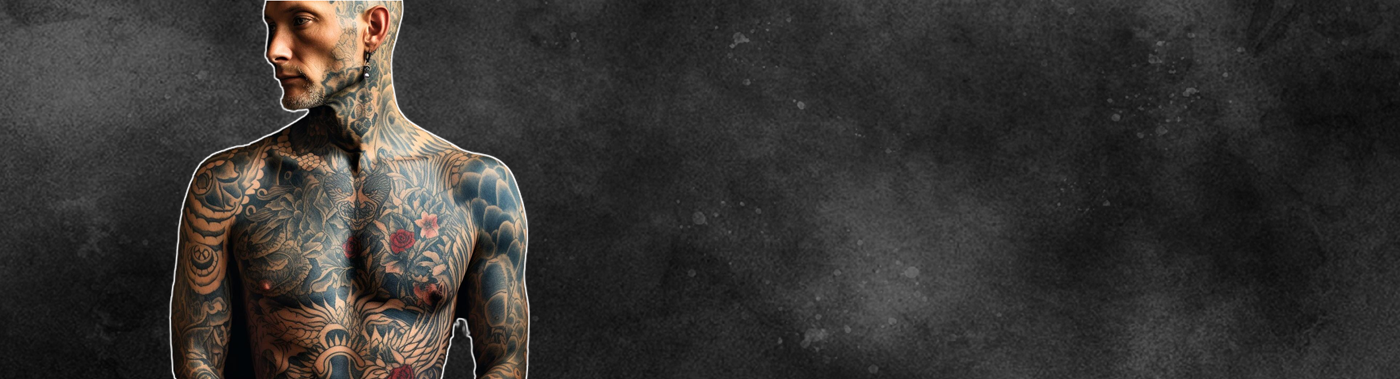
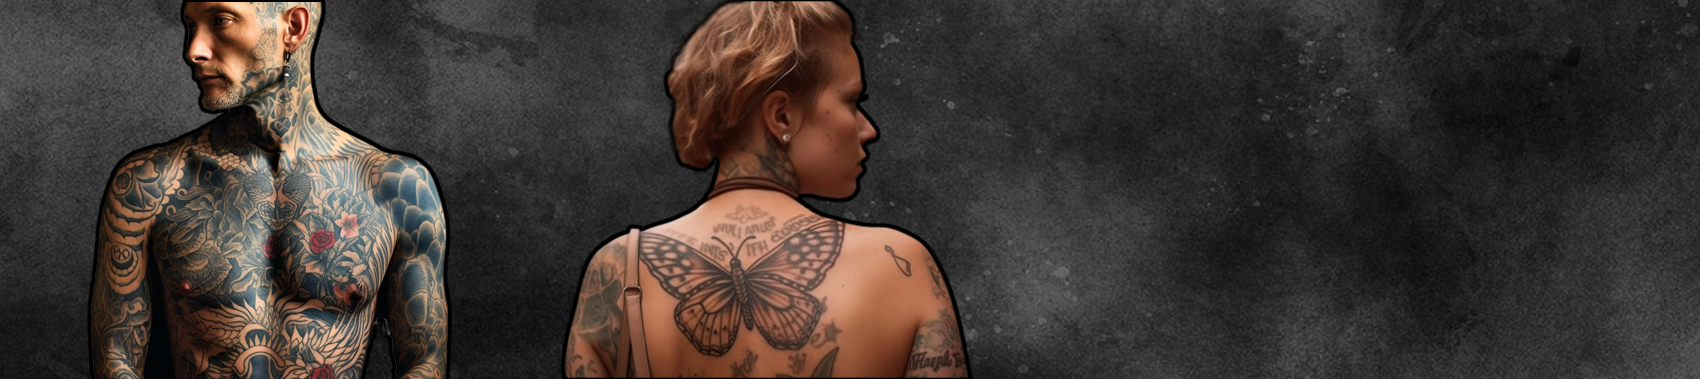
ajustements homepage

diff --git a/client/src/App.vue b/client/src/App.vue
@@ -8,11 +8,9 @@
   <div id="app">
     <nav
       :class="{ 'bg-transparent': !scrolled, 'bg-black': scrolled }"
-      class="py-4 w-full flex justify-center fixed top-0 z-10 transition-all duration-300"
+      class="py-4 w-full flex justify-center bg-black top-0 z-10 transition-all duration-300"
     >
-      <router-link to="/" class="nav-link"
-        >Home</router-link
-      >
+      <router-link to="/" class="nav-link">Home</router-link>
       <router-link to="/admin-dashboard" class="nav-link"
         >Admin Dashboard</router-link
       >
@@ -32,7 +30,7 @@ import { ref, onMounted, onUnmounted } from "vue";
 const scrolled = ref(false);
 
 const handleScroll = () => {
-  scrolled.value = window.scrollY > 20; // Change 20 to adjust scroll threshold
+  scrolled.value = window.scrollY > 20;
 };
 
 onMounted(() => {

diff --git a/client/src/views/HomeView.vue b/client/src/views/HomeView.vue
@@ -5,10 +5,12 @@ import banner from "../assets/banner2.png";
 
 <template>
   <img class="w-full" :src="banner" alt="" />
-  <div class="flex h-80 w-1/2 absolute top-28 right-0 justify-between">
+  <div class="flex h-80 w-5/12 absolute top-28 right-0 justify-between">
     <div
-      class="border-t-4 border-b-4 border-l-4 border-white h-full w-5/12"
-    ></div>
+      class="border-t-4 border-b-4 border-l-4 border-white h-full w-5/12 flex items-center justify-center"
+    >
+      <div>Flash Art</div>
+    </div>
     <div class="border-t-4 border-b-4 border-white h-full w-1/5"></div>
     <div class="border-t-4 border-b-4 border-white h-full w-1/5"></div>
   </div>
